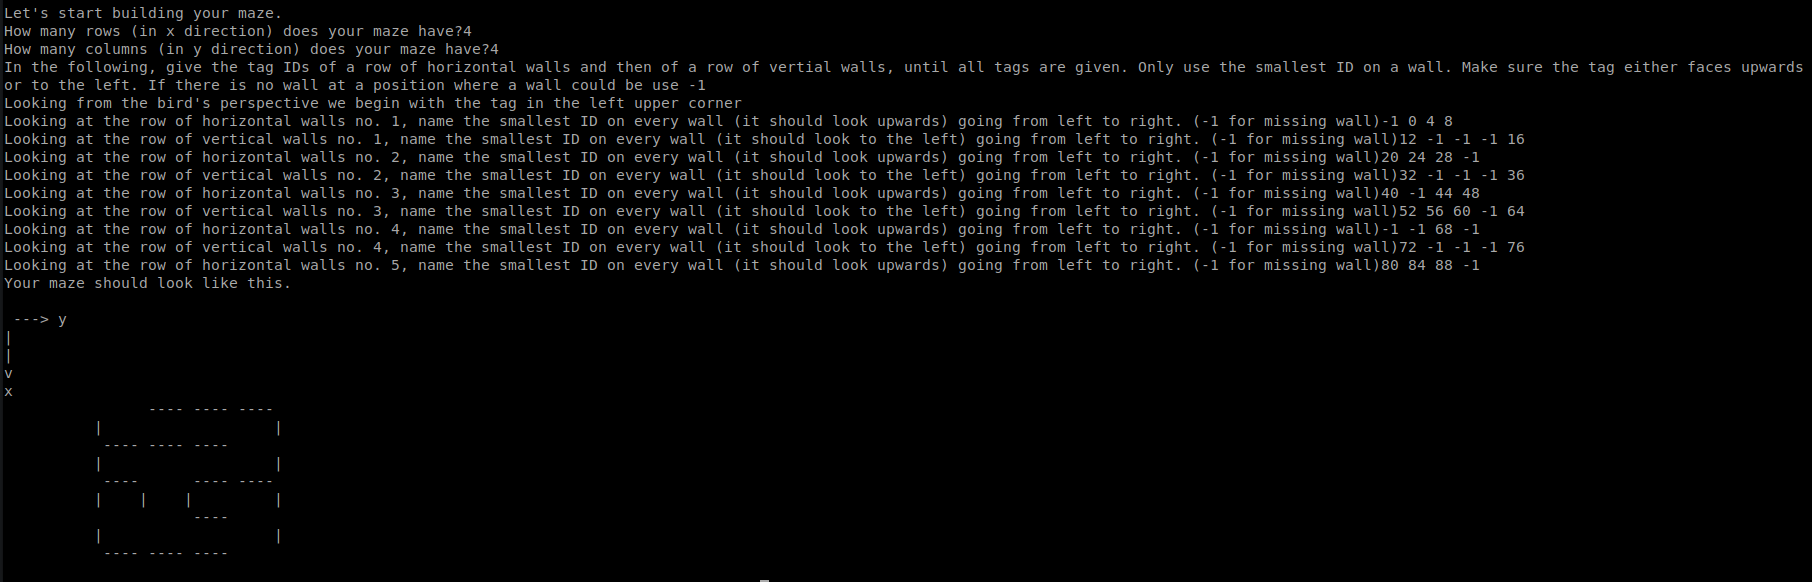
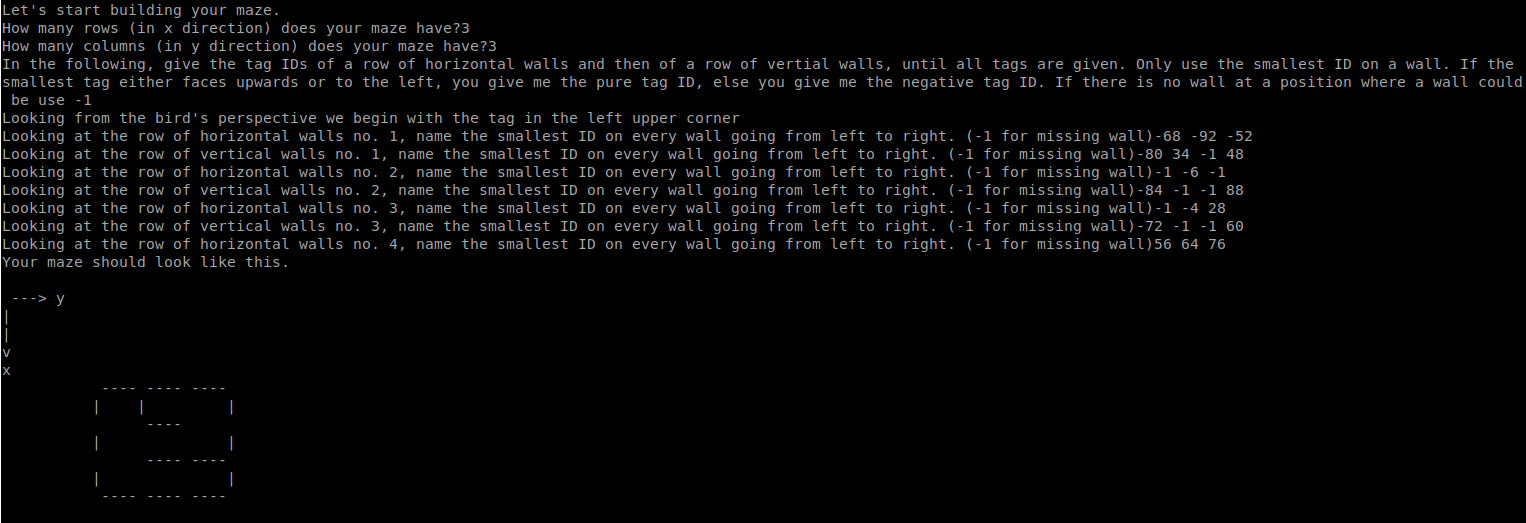
added new wall descriptions, resolved small bug for 3D plotting, added new images

diff --git a/maze_setup/wall.py b/maze_setup/wall.py
@@ -138,7 +138,67 @@ class Wall(object):
             80: [80, 81, None, None],
             84: [84, 85, None, None],
             88: [88, 89, None, None],
-            92: [92, 93, None, None]
+            92: [92, 93, None, None],
+            96: [96, 97, 98, 99],
+            100: [100, 101, 102, 103],
+            104: [104, 105, 106, 107],
+            108: [108, 109, 110, 111],
+            112: [112, 113, 114, 115],
+            116: [116, 117, 118, 119],
+            120: [120, 121, 122, 123],
+            124: [124, 125, 126, 127],
+            128: [128, 129, 130, 131],
+            132: [132, 133, 134, 135],
+            136: [136, 137, 138, 139],
+            140: [140, 141, 142, 143],
+            144: [144, 145, 146, 147],
+            148: [148, 149, 150, 151],
+            152: [152, 153, 154, 155],
+            156: [156, 157, 158, 159],
+            160: [160, 161, 162, 163],
+            164: [164, 165, 166, 167],
+            168: [168, 169, 170, 171],
+            172: [172, 173, 174, 175],
+            176: [176, 177, 178, 179],
+            180: [180, 181, 182, 183],
+            184: [184, 185, 186, 187],
+            188: [188, 189, 190, 191],
+            192: [192, 193, None, None],
+            196: [196, 197, None, None],
+            200: [200, 201, None, None],
+            204: [204, 205, None, None],
+            208: [208, 209, None, None],
+            212: [212, 213, None, None],
+            216: [216, 217, None, None],
+            220: [220, 221, None, None],
+            224: [224, 225, None, None],
+            228: [228, 229, None, None],
+            232: [232, 233, None, None],
+            236: [236, 237, None, None],
+            240: [240, 241, None, None],
+            244: [244, 245, None, None],
+            248: [248, 249, None, None],
+            252: [252, 253, None, None],
+            256: [256, 257, None, None],
+            260: [260, 261, None, None],
+            264: [264, 265, None, None],
+            268: [268, 269, None, None],
+            272: [272, 273, None, None],
+            276: [276, 277, None, None],
+            280: [280, 281, None, None],
+            284: [284, 285, None, None],
+            288: [288, 289, None, None],
+            292: [292, 293, None, None],
+            296: [296, 297, None, None],
+            300: [300, 301, None, None],
+            304: [304, 305, None, None],
+            308: [308, 309, None, None],
+            312: [312, 313, None, None],
+            316: [316, 317, None, None],
+            320: [320, 321, None, None],
+            324: [324, 325, None, None],
+            328: [328, 329, None, None],
+            332: [332, 333, None, None]
         }
         for key, val in smallest_id_to_all_ids_on_wall.items():
             assert key == val[0], "First entry in the dictionary values must be the key"

diff --git a/maze_setup/maze.py b/maze_setup/maze.py
@@ -230,7 +230,7 @@ class Maze(object):
                                    wall.height,
                                    color=cream)
                     if len(wall.tags) > 2:
-                        if wall.small_tag_size >= 0:
+                        if wall.smallest_tag_id >= 0:
                             text3d(ax, (wall.pos_x+50, wall.pos_y, 0), str(wall.tags[2].tag_id), zdir="z", angle=math.pi/2, size=40, zorder=10)
                         else:
                             text3d(ax, (wall.pos_x - 50, wall.pos_y, 0), str(wall.tags[2].tag_id), zdir="z",
@@ -252,7 +252,7 @@ class Maze(object):
                                    wall.height,
                                    color=dark_blue)
                     if len(wall.tags) > 2:
-                        if wall.small_tag_size >= 0:
+                        if wall.smallest_tag_id >= 0:
                             text3d(ax, (wall.pos_x, wall.pos_y+50, 0), str(wall.tags[2].tag_id), zdir="z", angle=math.pi, size=40, zorder=10)
                         else:
                             text3d(ax, (wall.pos_x, wall.pos_y - 50, 0), str(wall.tags[2].tag_id), zdir="z", size=40,

diff --git a/README.md b/README.md
@@ -3,7 +3,7 @@ Code to craft (lasercut) a wooden maze, whose walls are engraved with AprilTags 
 
 3D plot of exemplary maze            |  Exemplary real maze 
 :-------------------------:|:-------------------------:
-![3D plot of examplary maze](https://github.com/NikHoh/apriltag-maze/blob/main/maze_setup/images/plot_maze.png)  |  ![Examplary real maze](https://github.com/NikHoh/apriltag-maze/blob/main/maze_craft/images/real_maze.png)
+![3D plot of examplary maze](https://github.com/NikHoh/apriltag-maze/blob/main/maze_setup/images/plot_maze.png)  |  ![Examplary real maze](https://github.com/NikHoh/apriltag-maze/blob/main/maze_craft/images/image_maze.jpg)
 
 ## Craft a maze
 
@@ -13,7 +13,7 @@ A maze consists of MDF walls (250mm x 170mm x 3mm). Each wall consists of 4 Apri
 
 Looking from above on a maze, the coordinate system origin is in the upper left corner with the x-axis pointing downwards and the y-axis pointing to the right.
 
-By convention, the smallest AprilTag ID on a wall is a multiple of 4. It belongs to the big AprilTag that by convention either points to North (on a horizontal wall) or to West (on a vertical wall). The small tag on the same side of the wall has ID +1. The big tag on the other side of the wall (pointing South or East) has ID +1. The small tag in the other side has ID +1.
+By convention, the smallest AprilTag ID on a wall is a multiple of 4. It belongs to the big AprilTag that by convention and by default either points to North (on a horizontal wall) or to West (on a vertical wall). The small tag on the same side of the wall has ID +1. If there are tags on the other side, the big tag on the other side of the wall (pointing South or East) has ID +2. The small tag in the other side has ID +3.
 
 Get png data of AprilTag family from https://github.com/AprilRobotics/apriltag-imgs and place it in the folder `tagCustom48h12`
 
